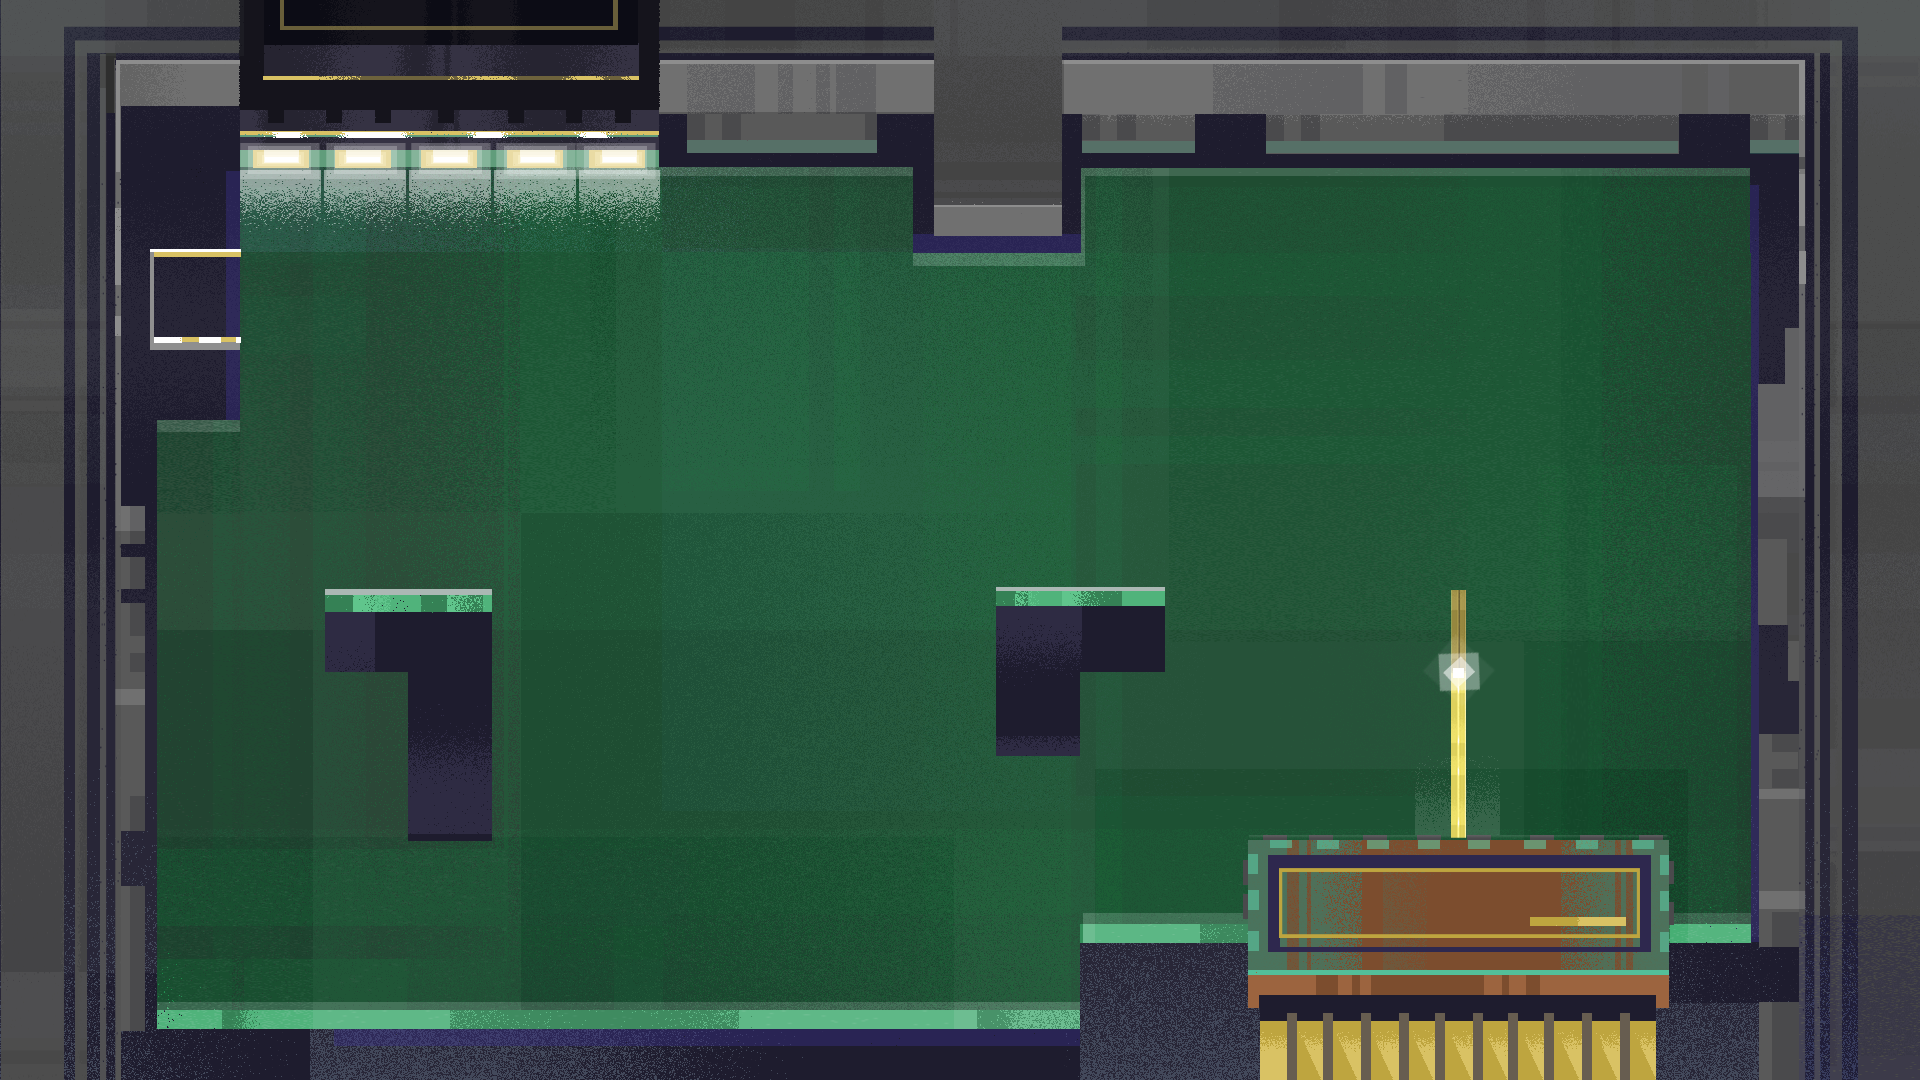
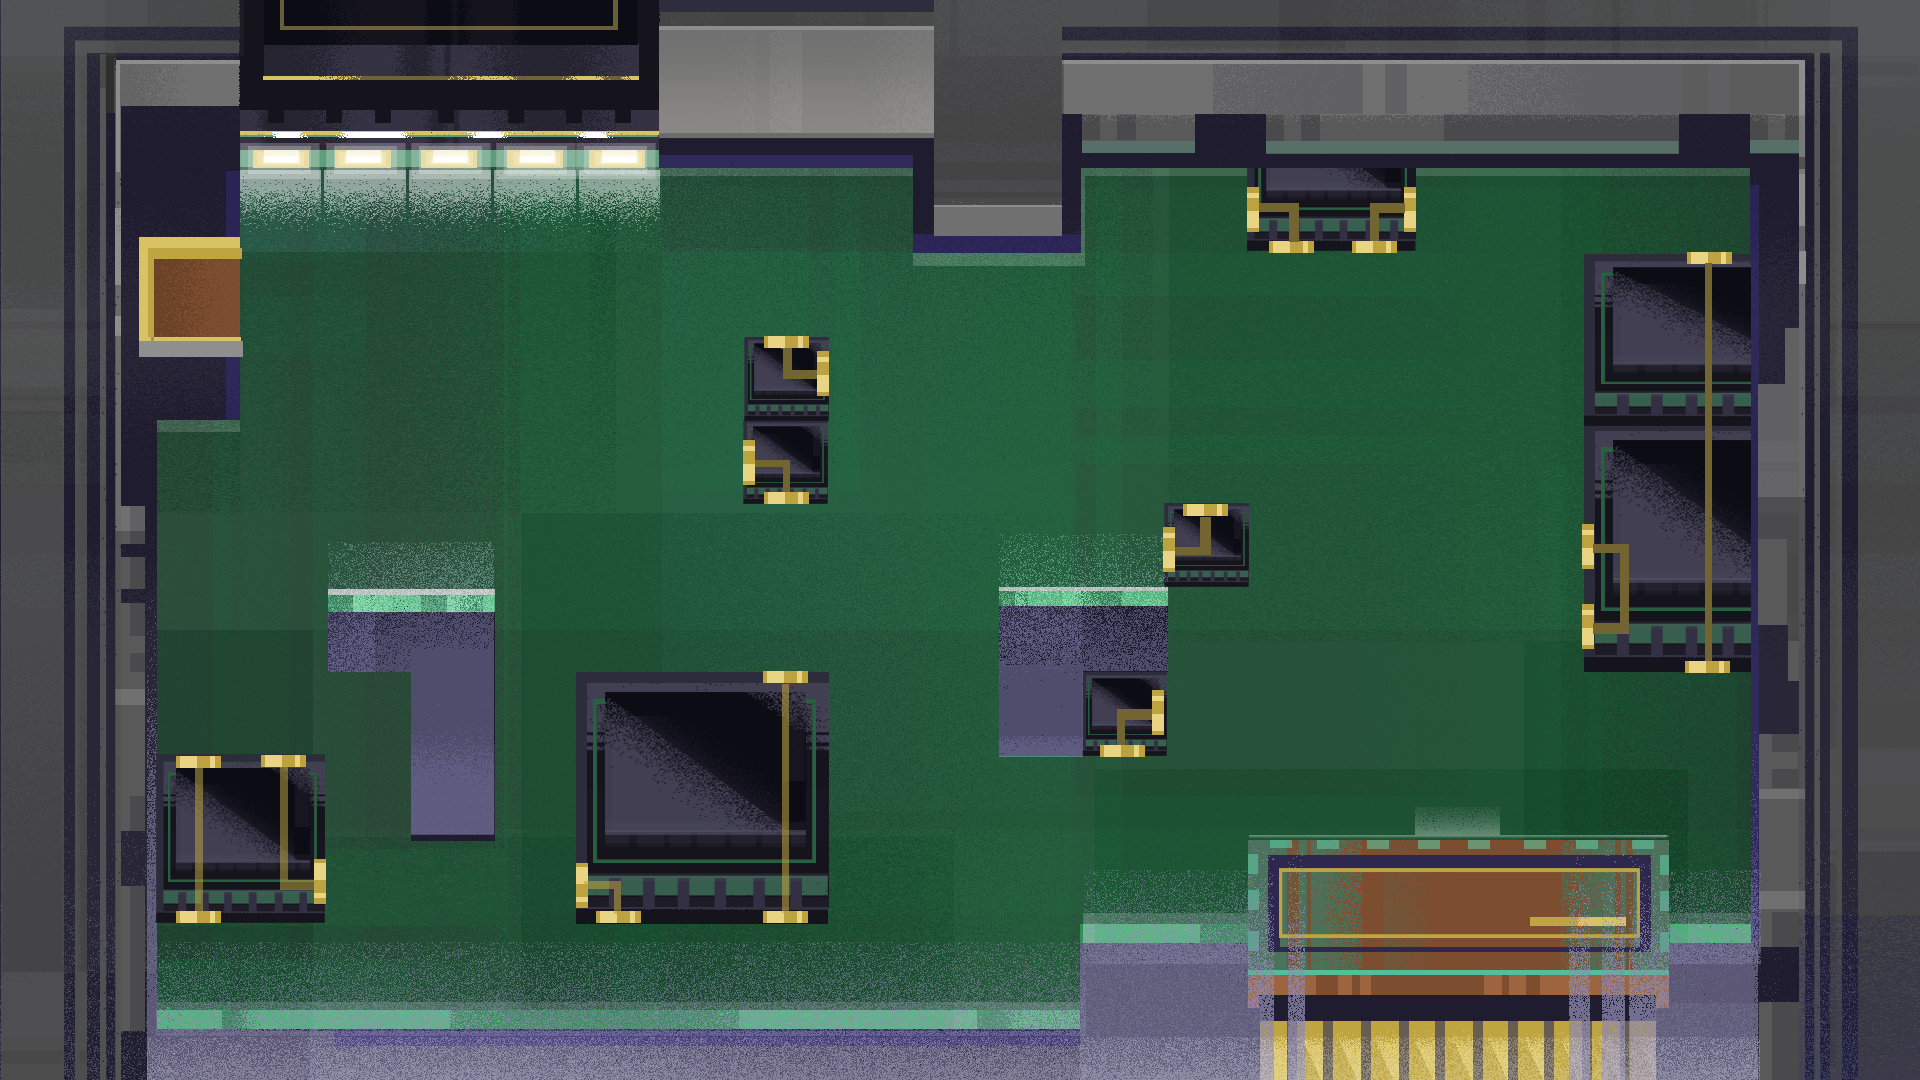
cables kinda working, but not really

diff --git a/src/game-objects/pieces/AbstractPieces.ts b/src/game-objects/pieces/AbstractPieces.ts
@@ -9,7 +9,10 @@ export enum Direction {
 	LEFT
 }
 
-export const RotationDeg = (rotation: Direction): number => [0, 90, 180, 270][rotation];
+export const RotationDeg = (rotation: Direction): number => {
+	const angles = [0, 90, 180, 270];
+	return angles[rotation % 4];
+};
 
 export enum PieceState {
 	FREE,
@@ -24,6 +27,7 @@ export enum Animations {
 }
 
 export const SPRITE_FRAMES = 12;
+export const FRAME_RATE = 5;
 
 export abstract class AbstractPiece {
 	abstract activeBorders: { in: Direction; out: Direction } | null = null;
@@ -34,11 +38,17 @@ export abstract class AbstractPiece {
 	private rotation: Direction = Direction.TOP;
 	private position: { gridX: number; gridY: number };
 	private sprite: Phaser.GameObjects.Sprite;
+	private getPieceById: any;
+	private type: any;
+	private createNewPiece: any;
 
-	constructor({ gridX, gridY, rotation, id }: any) {
+	constructor({ gridX, gridY, rotation, id, getPieceById, type, createNewPiece }: any) {
 		this.spriteKey = id;
 		this.position = { gridX, gridY };
 		this.rotation = rotation;
+		this.getPieceById = getPieceById;
+		this.type = type;
+		this.createNewPiece = createNewPiece;
 	}
 
 	// public load = (scene: Phaser.Scene) => {
@@ -61,26 +71,32 @@ export abstract class AbstractPiece {
 
 		scene.anims.create({
 			key: `${this.spriteKey}-${Animations.DONE}`,
-			frames: [{ key: this.assetURL.toString(), frame: SPRITE_FRAMES + 1 }]
+			frames: scene.anims.generateFrameNumbers(this.assetURL.toString(), {
+				start: 11,
+				end: 23
+			}),
+			frameRate: FRAME_RATE * 2,
+			repeat: -1
 		});
+
 		const fillingAni = scene.anims.create({
 			key: `${this.spriteKey}-${Animations.FILLING}`,
 			frames: scene.anims.generateFrameNumbers(this.assetURL.toString(), {
 				start: 1,
-				end: SPRITE_FRAMES
+				end: 11
 			}),
-			frameRate: 50,
+			frameRate: FRAME_RATE,
 			repeat: 0
 		});
 
-		fillingAni && fillingAni.on('complete', this.setDone);
+		fillingAni && fillingAni!.on('complete', this.setDone);
 
 		this.sprite.anims.play(`${this.spriteKey}-${Animations.IDLE}`);
 	};
 
 	public rotate() {
-		this.rotation + 1;
-		this.sprite && (this.sprite.angle = RotationDeg(this.rotation));
+		this.rotation = this.rotation + 1;
+		this.sprite!.angle = RotationDeg(this.rotation);
 	}
 
 	public moveTo({ gridX, gridY }: { gridX: number; gridY: number }) {
@@ -96,11 +112,52 @@ export abstract class AbstractPiece {
 			gridY: this.position.gridY,
 			direction: this.getActiveBorders()!.out
 		});
-		console.log('nextPiece', nextPiece);
+
+		if (!nextPiece) {
+			this.handleGameOver();
+		} else {
+			this.getPieceById(nextPiece).handleGoNext(this);
+		}
 	};
+
+	public handleGoNext(oldPiece: AbstractPiece) {
+		const oldBorders = oldPiece.getActiveBorders();
+		const newBoders = this.getActiveBorders();
+		const outDirection = (oldBorders!.out + 2) % 4;
+
+		if (![newBoders!.out, newBoders!.in].includes(outDirection)) {
+			this.handleGameOver();
+			return;
+		}
+		if (newBoders!.in !== outDirection) {
+			this.rotateForFlow();
+			return;
+		}
+
+		this.setActive();
+	}
+
+	public rotateForFlow() {
+		if (this.type === 'line') {
+			this.rotate();
+			this.rotate();
+		}
+
+		if (this.type === 'curve') {
+			this.sprite.scaleY = -1;
+			this.rotate();
+		}
+
+		this.setActive();
+	}
+
+	public handleGameOver() {
+		console.log('GAME OOOOOOO V    E      R          ! ! ! ! ! ! ! ! ! !');
+	}
 
 	public place() {
 		this.state = PieceState.SET;
+		this.createNewPiece();
 	}
 
 	public setActive() {
@@ -113,8 +170,8 @@ export abstract class AbstractPiece {
 	public getActiveBorders = (): { in: Direction; out: Direction } | null =>
 		this.activeBorders
 			? {
-					in: this.activeBorders.in + this.rotation,
-					out: this.activeBorders.out + this.rotation
+					in: (this.activeBorders.in + this.rotation) % 4,
+					out: (this.activeBorders.out + this.rotation) % 4
 			  }
 			: null;
 }

diff --git a/src/game-objects/pieces/Pieces.ts b/src/game-objects/pieces/Pieces.ts
@@ -29,13 +29,34 @@ export class Pieces extends GameObject {
 		sprite && this.group.add(sprite);
 	};
 
+	public getPieceById = (id: string) => this.pieces[id];
+
+	public createNewPiece = () => {
+		this.createPiece({
+			id: new Date().getTime(),
+			gridX: 0,
+			gridY: 1,
+			type: Math.random() < 0.5 ? 'line' : 'curve'
+		});
+	};
+
 	public createPiece = ({ id, type, gridX, gridY, rotation = Direction.TOP }: any) => {
 		let piece: AbstractPiece | null = null;
+		const props = {
+			gridX,
+			gridY,
+			rotation,
+			id,
+			type,
+			createNewPiece: this.createNewPiece,
+			getPieceById: this.getPieceById
+		};
+
 		if (type === 'line') {
-			piece = new StraightCable({ gridX, gridY, rotation, id });
+			piece = new StraightCable(props);
 		}
 		if (type === 'curve') {
-			piece = new CurveCable({ gridX, gridY, rotation, id });
+			piece = new CurveCable(props);
 		}
 
 		if (piece) {

diff --git a/src/scenes/WorldScene.ts b/src/scenes/WorldScene.ts
@@ -149,7 +149,29 @@ export class WorldScene extends Phaser.Scene {
 				id: 'line-1',
 				type: 'line',
 				gridX: 15,
-				gridY: 6
+				gridY: 6,
+				rotation: 2
+			},
+			{
+				id: 'curve-0',
+				type: 'curve',
+				gridX: 15,
+				gridY: 5,
+				rotation: 1
+			},
+			{
+				id: 'line-2',
+				type: 'line',
+				gridX: 14,
+				gridY: 5,
+				rotation: 3
+			},
+			{
+				id: 'curve-1',
+				type: 'curve',
+				gridX: 13,
+				gridY: 5,
+				rotation: 3
 			}
 		].forEach(this.pieces.createPiece);
 	};
@@ -160,6 +182,7 @@ export class WorldScene extends Phaser.Scene {
 
 	private initGame() {
 		this.pieces.pieces['line-0'].setActive();
+		this.pieces.createNewPiece();
 	}
 }
 

diff --git a/src/game-objects/pieces/GridManager.ts b/src/game-objects/pieces/GridManager.ts
@@ -17,7 +17,6 @@ class GridManager {
 	}
 
 	getPieceOn({ gridX, gridY, direction }: any) {
-		console.log(gridX, gridY, direction, this.grid);
 		if (direction === Direction.TOP) return this.grid[`${gridX}-${gridY - 1}`];
 		if (direction === Direction.RIGHT) return this.grid[`${gridX + 1}-${gridY}`];
 		if (direction === Direction.BOTTOM) return this.grid[`${gridX}-${gridY + 1}`];

diff --git a/src/config.ts b/src/config.ts
@@ -13,7 +13,7 @@ export const mainConfig: Phaser.Types.Core.GameConfig = {
 	physics: {
 		default: 'arcade',
 		arcade: {
-			debug: true
+			debug: false
 		}
 	},
 	parent: 'game',
